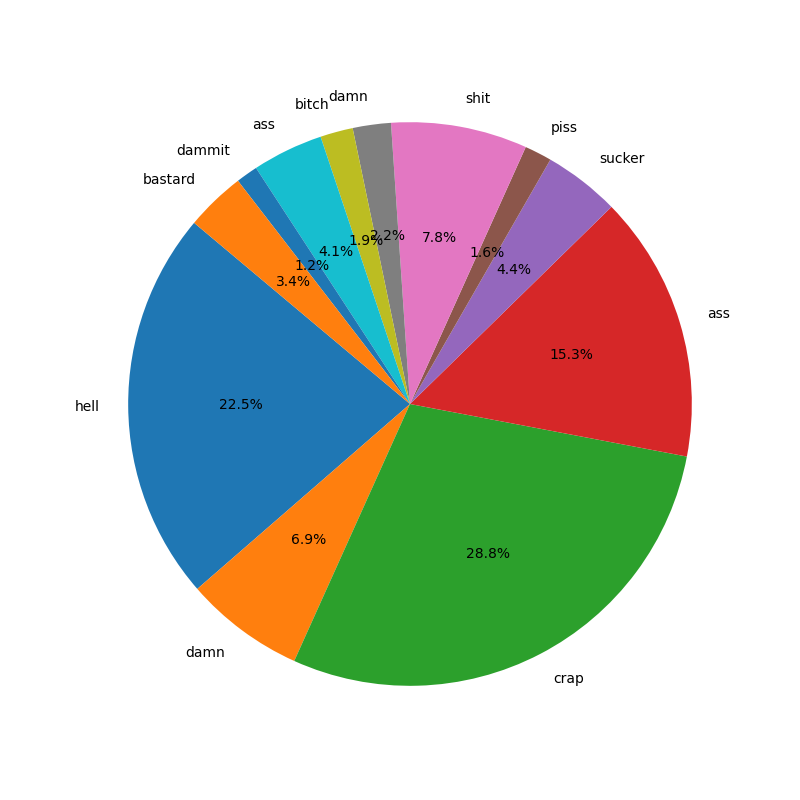
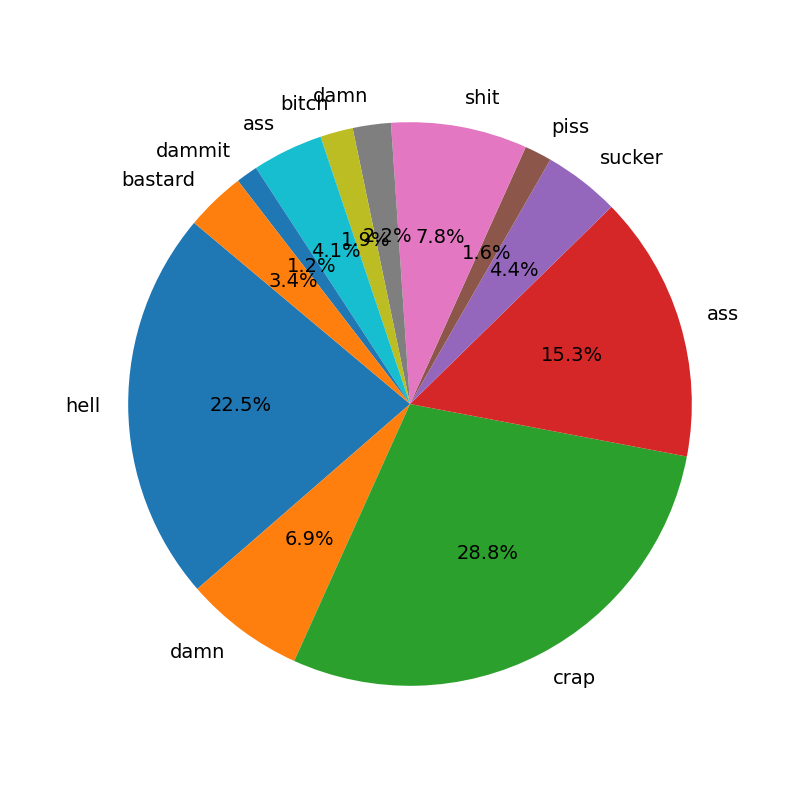
.

diff --git a/docs/index.html b/docs/index.html
@@ -44,6 +44,7 @@
                 <div id="keyword-stats"></div>
                 <br>
                 <i>Which is a bit rude, isn't it?</i>
+                <a href='https://raw.githubusercontent.com/tbwcjw/profanekernel/refs/heads/main/results/COUNT.png'><img class="pie" src="https://raw.githubusercontent.com/tbwcjw/profanekernel/refs/heads/main/results/COUNT.png"></a>
             </div>
         </div>
         <div id="profanity-table"></div>

diff --git a/docs/static/css/main.css b/docs/static/css/main.css
@@ -30,3 +30,11 @@ code {
 .red {
 	background-color: rgba(255, 0, 0, 0.15);
 }
+.pie {
+	display:block;
+	margin-left: auto;
+	margin-right: auto;
+	width:33%;
+	height:auto;
+	image-rendering: crisp-edges;
+}

diff --git a/main.py b/main.py
@@ -46,15 +46,15 @@ def pull_or_clone():
 
 async def compile(result=None):
     print("compiling results")
-    compile_results.write_to_readme(csv_output, "results/PROFANITY.md")
-    compile_results.write_to_readme(count_file, "results/COUNT.md")
-    compile_results.write_to_runlog(result, "runlog.csv")
+    #compile_results.write_to_readme(csv_output, "results/PROFANITY.md")
+    #compile_results.write_to_readme(count_file, "results/COUNT.md")
+    #compile_results.write_to_runlog(result, "runlog.csv")
     compile_results.keyword_count_pie("count.csv", "results/COUNT.png")
 
 async def main():
-    pull_or_clone()
-    result = await read.search_recurse(keywords_file, ignore_file, clone_dir, tree_url, csv_output, count_file, concurrent)
-    await compile(result)
+    #pull_or_clone()
+    #result = await read.search_recurse(keywords_file, ignore_file, clone_dir, tree_url, csv_output, count_file, concurrent)
+    await compile()
     
 
 if __name__ == "__main__":

diff --git a/compile_results.py b/compile_results.py
@@ -24,7 +24,7 @@ def keyword_count_pie(csvf, output):
 
         
         plt.figure(figsize=(8, 8))
-        plt.pie(filtered_counts, labels=filtered_keywords, autopct='%1.1f%%', startangle=140)
+        plt.pie(filtered_counts, labels=filtered_keywords, autopct='%1.1f%%', startangle=140, textprops={'fontsize': 14})
         plt.axis('equal')
         plt.savefig(output)
 

diff --git a/results/PROFANITY.md b/results/PROFANITY.md
@@ -352,4 +352,4 @@
 | https://git.kernel.org/pub/scm/linux/kernel/git/stable/linux.git/tree/tools/testing/selftests/powerpc/signal/sig_sc_double_restart.c | 19 | sucker | *  interrupting that sucker on 64bit... |
 
 
-Last updated: 2024-09-29 17:03:43
+Last updated: 2024-09-29 20:25:32

diff --git a/results/COUNT.md b/results/COUNT.md
@@ -30,4 +30,4 @@
 | shit | 1 |
 
 
-Last updated: 2024-09-29 17:03:43
+Last updated: 2024-09-29 20:25:32
